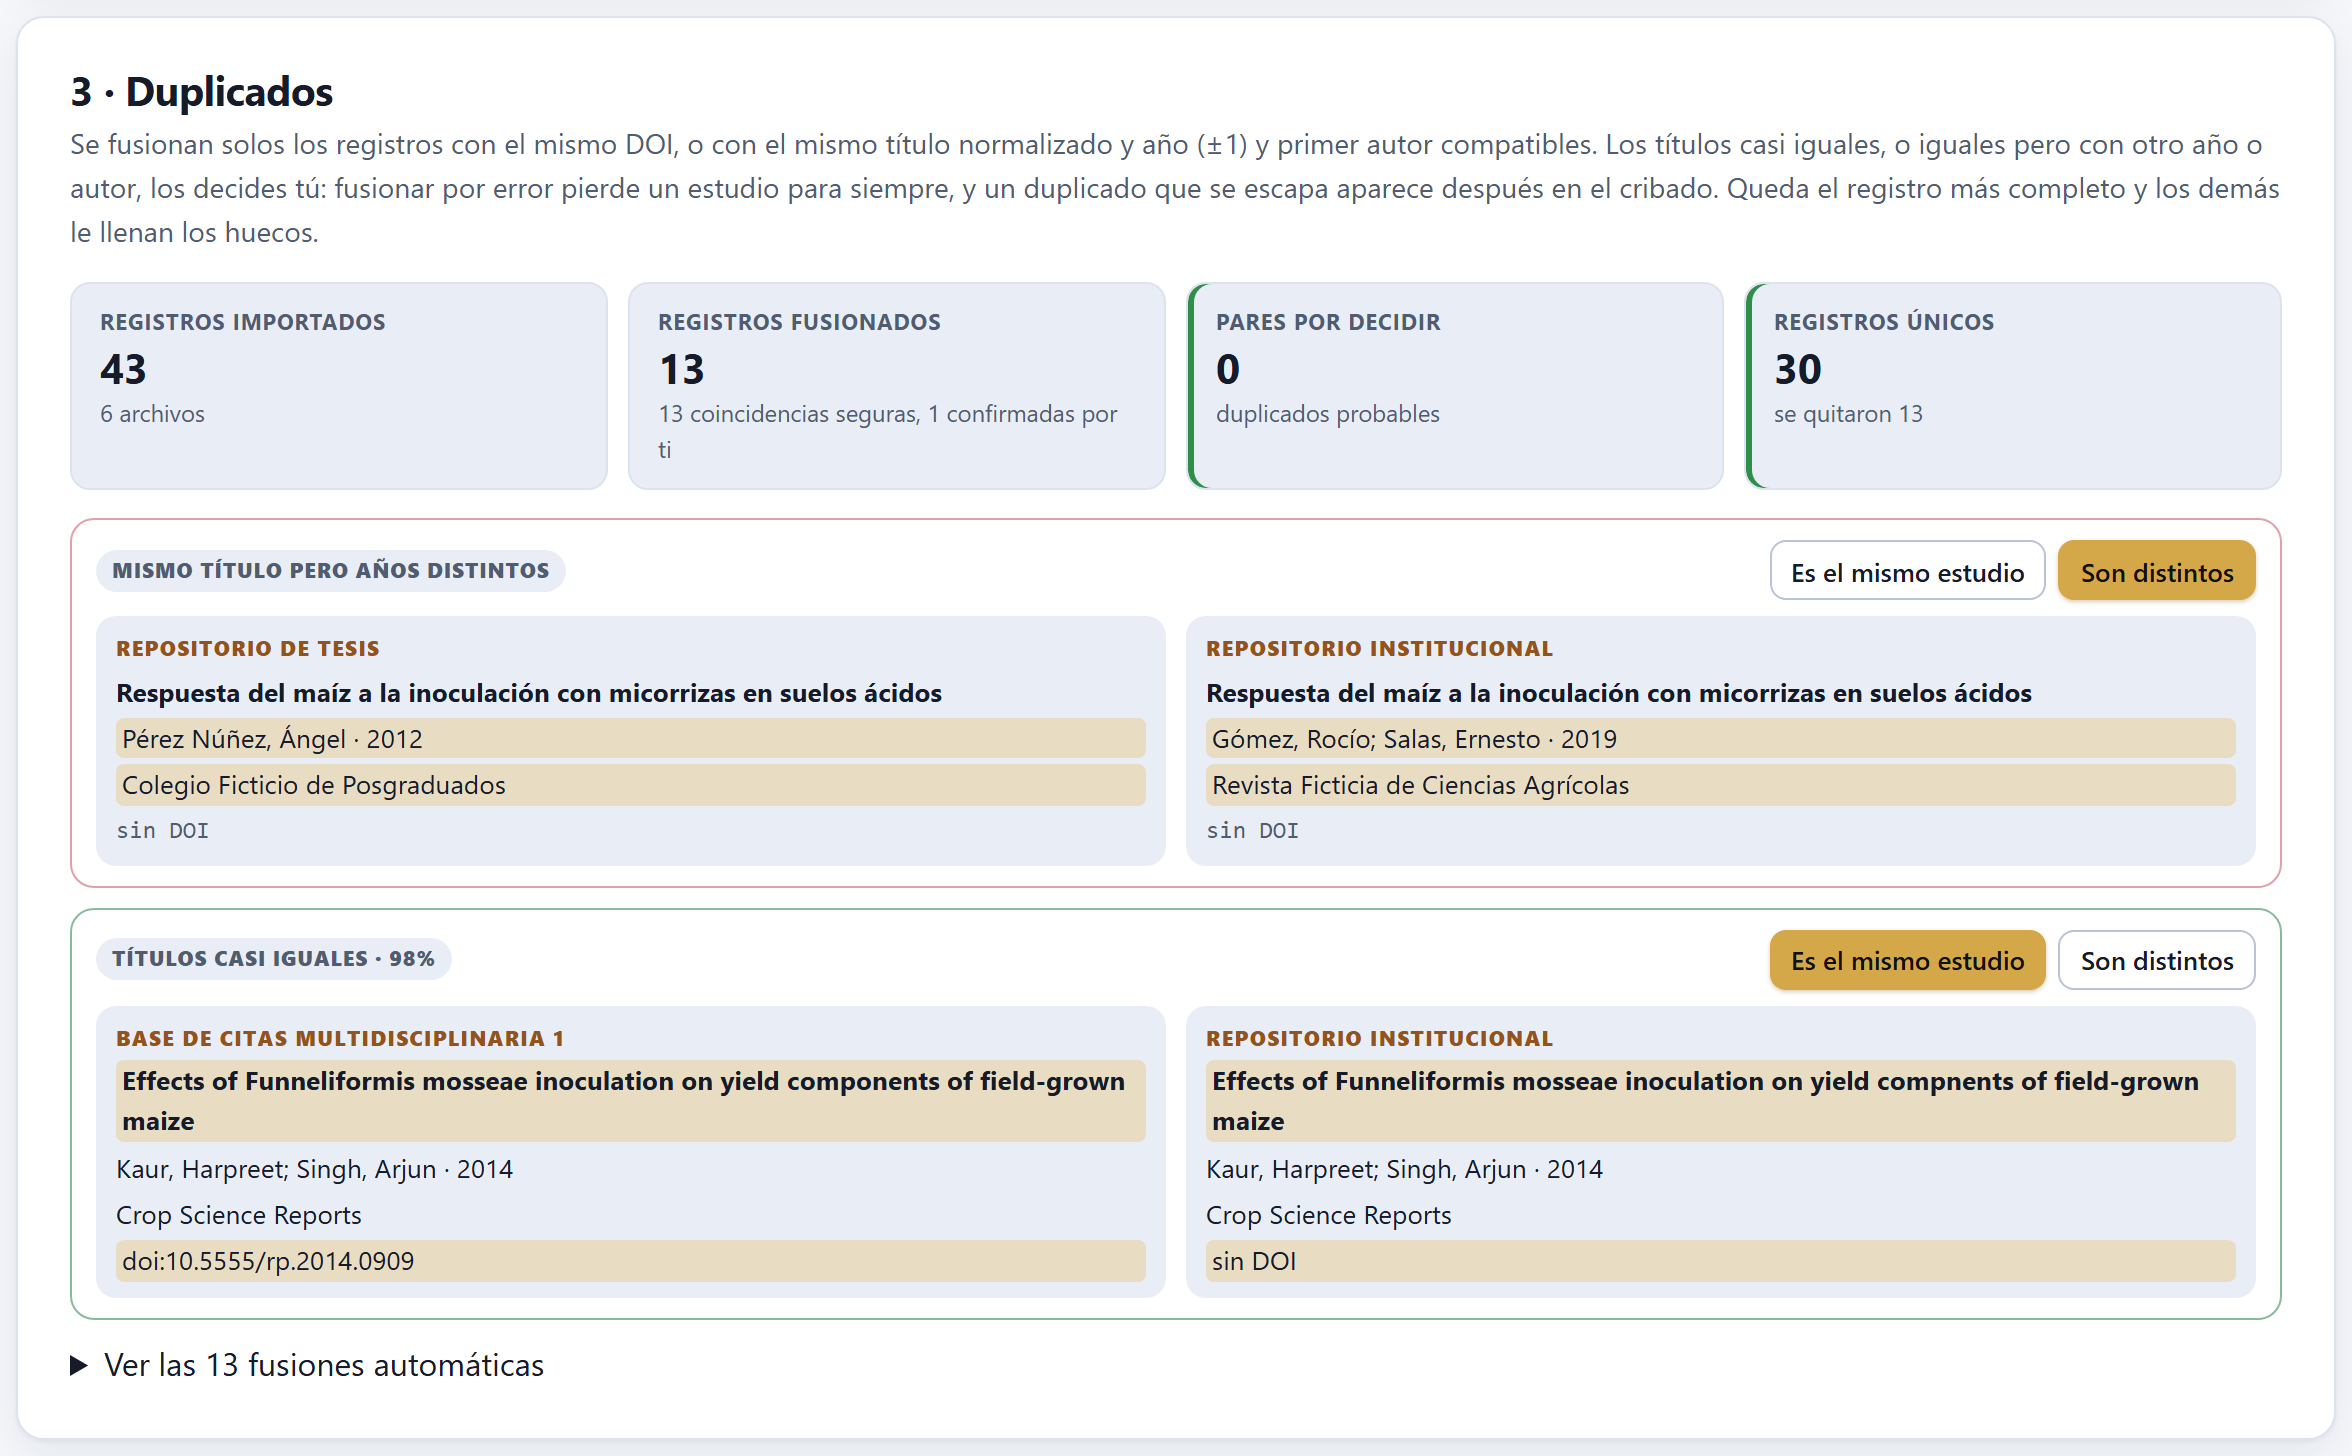
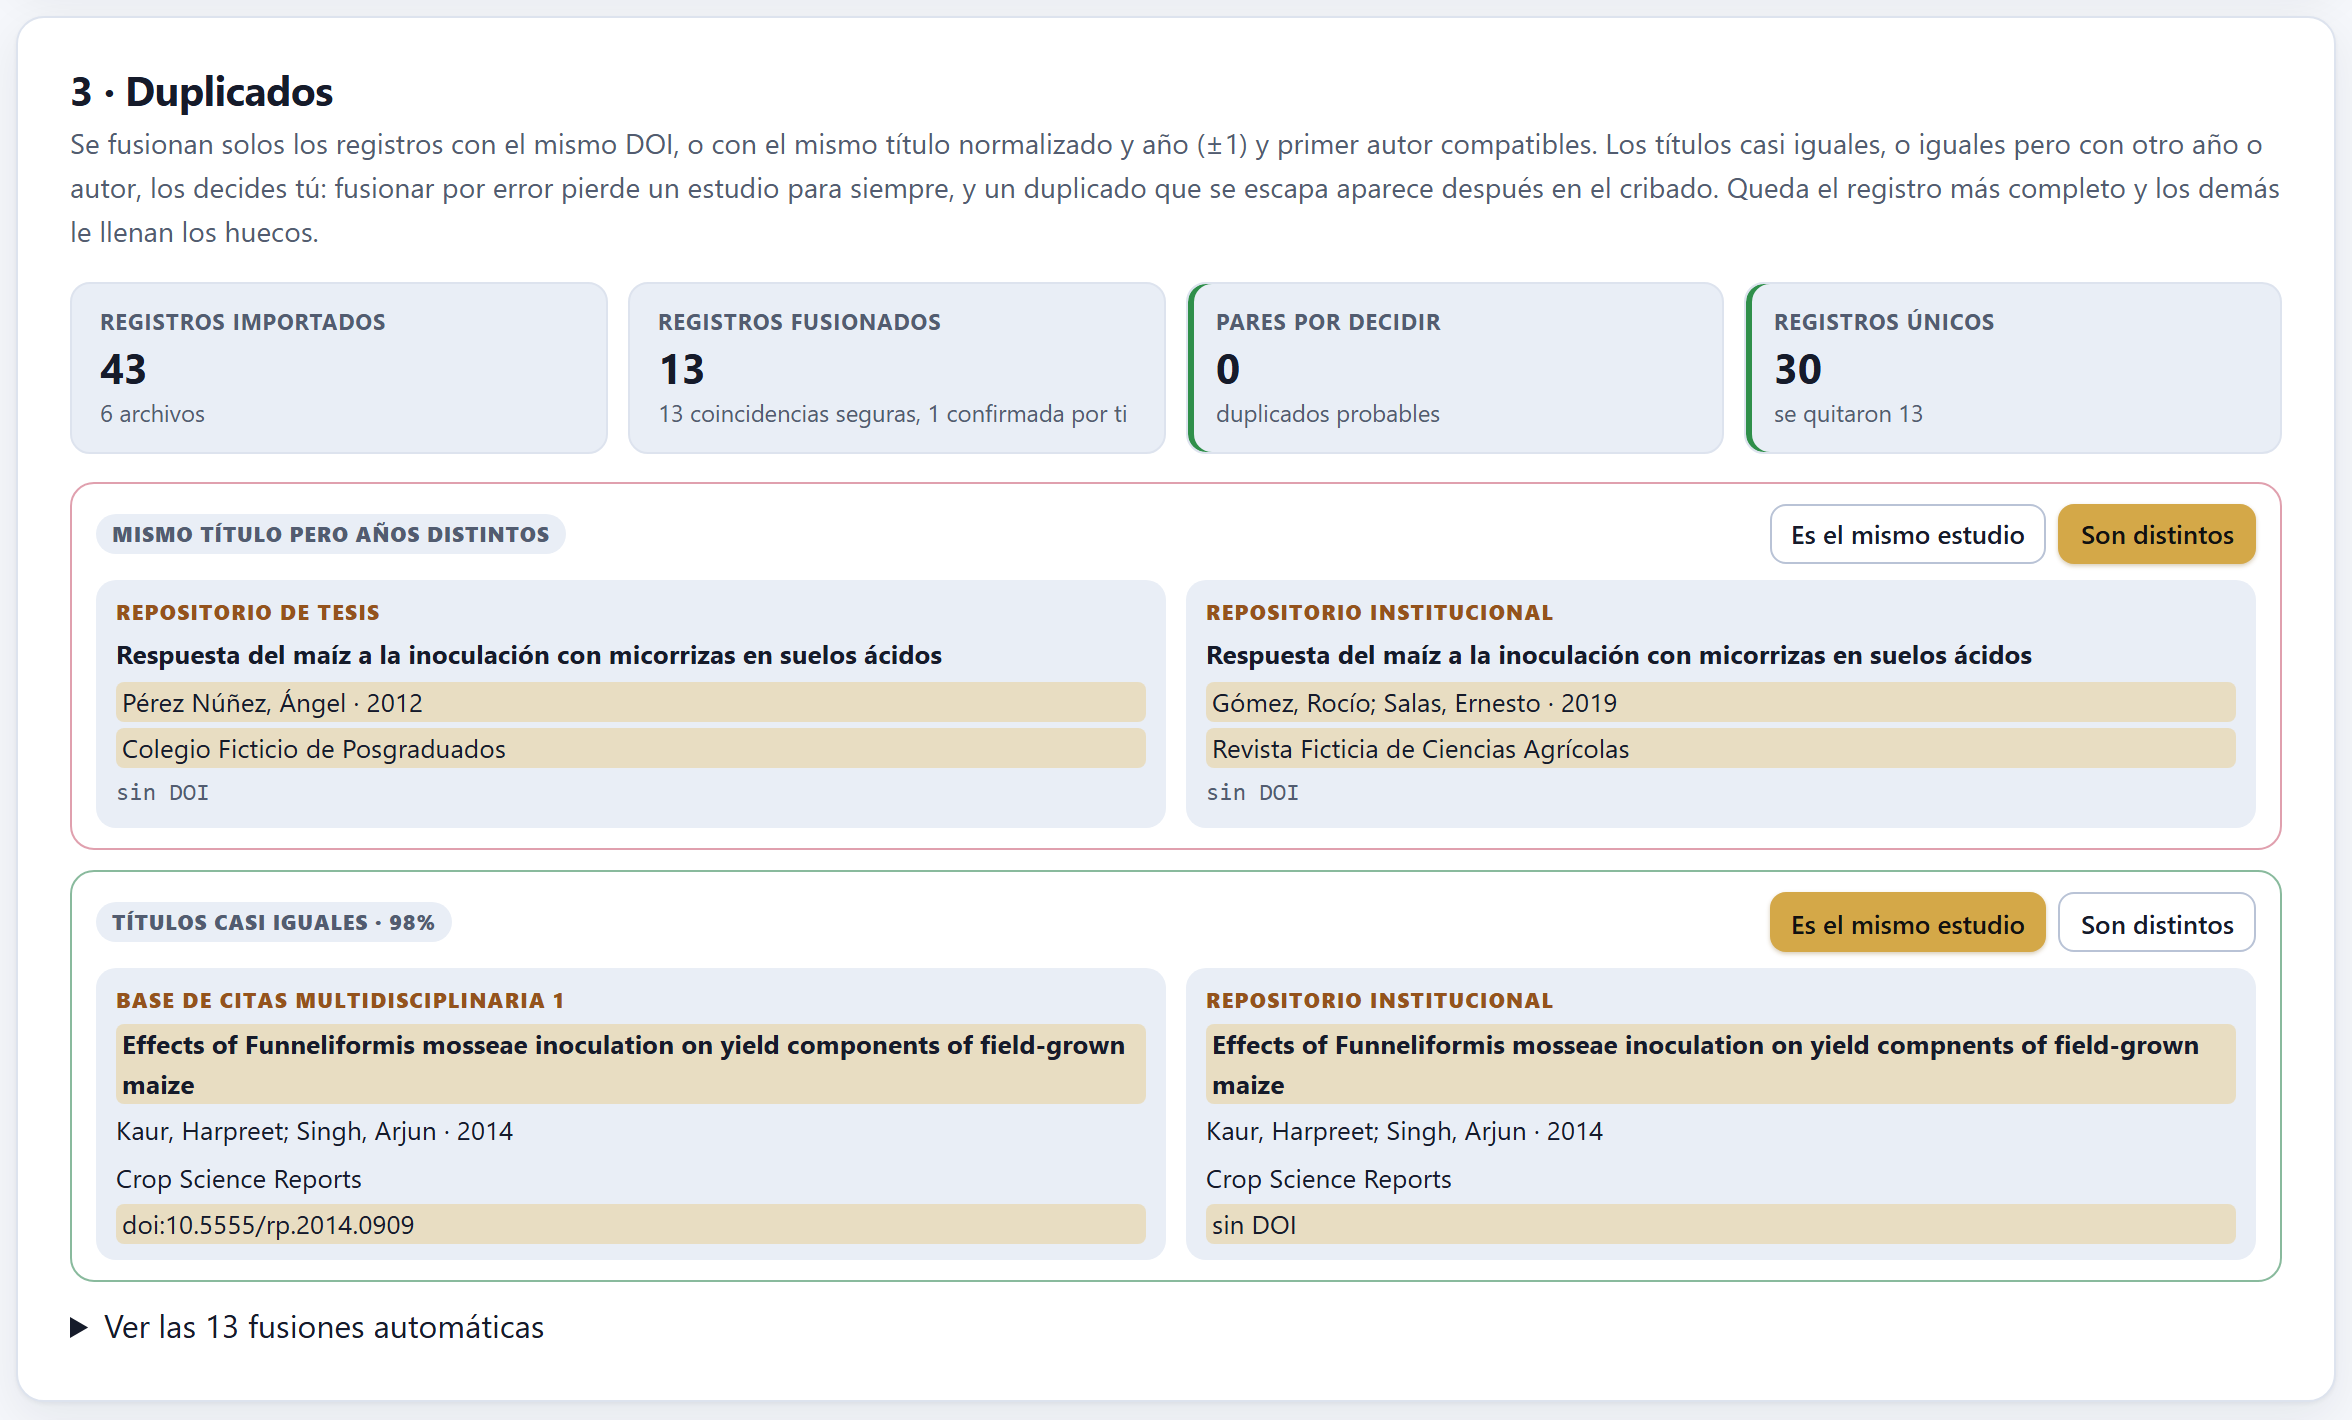
Duplicados: «1 confirmada por ti» y «1 coincidencia segura» concuerdan en número (también «1 certain match»)
Captura de la figura 3.4 en español retomada; la inglesa no cambia. Pruebas: 558/558 por http.

diff --git a/js/block3.js b/js/block3.js
@@ -118,7 +118,7 @@
     const d = dedup();
     statTiles('b3DupTiles', [
       [T('Registros importados', 'Records imported'), fmtNum(recs.length), T(`${S().files.length} archivos`, `${S().files.length} files`)],
-      [T('Registros fusionados', 'Records merged'), fmtNum(d.removed), T(`${d.pairs.filter(p => p.kind === 'certain').length} coincidencias seguras, ${d.pairs.filter(p => S().decisions[p.key] === 'dup').length} confirmadas por ti`, `${d.pairs.filter(p => p.kind === 'certain').length} certain matches, ${d.pairs.filter(p => S().decisions[p.key] === 'dup').length} confirmed by you`)],
+      [T('Registros fusionados', 'Records merged'), fmtNum(d.removed), (() => { const nc = d.pairs.filter(p => p.kind === 'certain').length, nd = d.pairs.filter(p => S().decisions[p.key] === 'dup').length; return T(`${nc} ${nc === 1 ? 'coincidencia segura' : 'coincidencias seguras'}, ${nd} ${nd === 1 ? 'confirmada' : 'confirmadas'} por ti`, `${nc} certain ${nc === 1 ? 'match' : 'matches'}, ${nd} confirmed by you`); })()],
       [T('Pares por decidir', 'Pairs to decide'), fmtNum(d.pending), T('duplicados probables', 'probable duplicates'), d.pending ? 'warn' : 'ok'],
       [T('Registros únicos', 'Unique records'), fmtNum(d.unique.length), T(`se quitaron ${d.removed}`, `${d.removed} removed`), 'ok'],
     ]);
